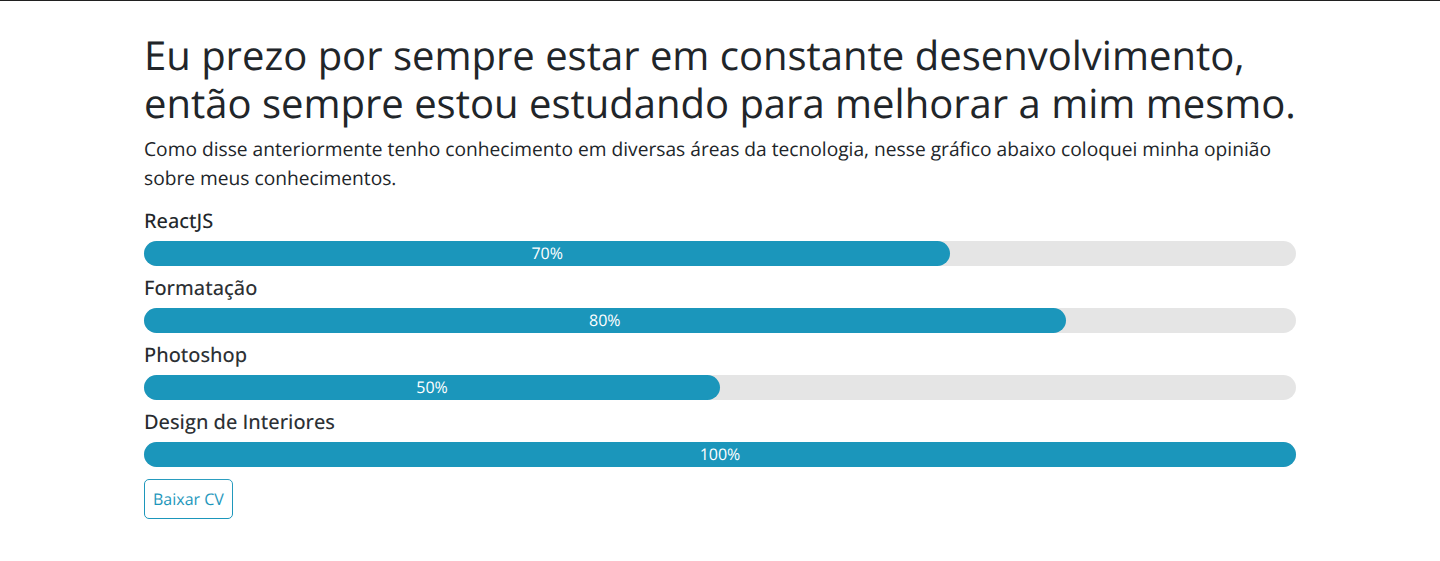
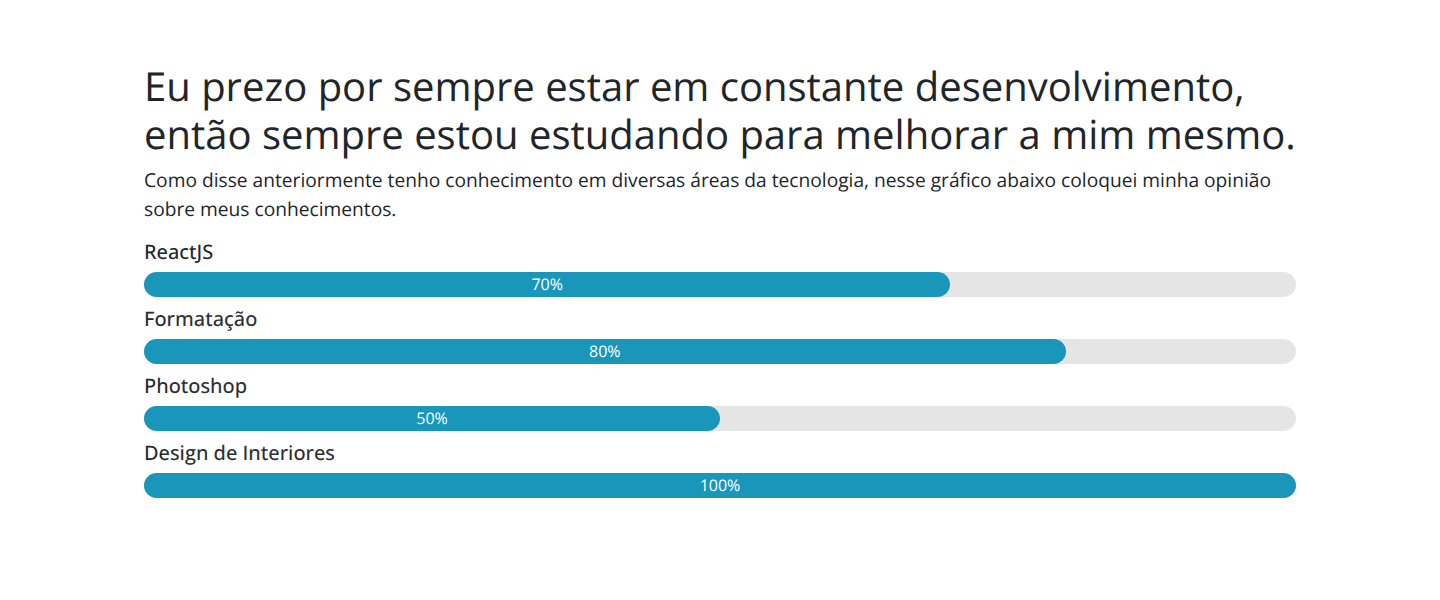
docs: point the README to GitHub Pages and the new repository name

Changed region(s): [[0.0938, 0.0606, 0.9062, 0.7879], [0.125, 0.7879, 0.875, 0.8485], [0.0938, 0.8788, 0.1562, 0.9091]]

diff --git a/README.md b/README.md
@@ -1,6 +1,6 @@
 <div align="center">
 
-# raniWebsite
+# 2021.ranimontagna.com
 
 **My first personal site, from 2021. Questionable design and CSS of dubious origin, kept as a humble reminder of where I started.**
 
@@ -10,7 +10,7 @@
 ![Bootstrap](https://img.shields.io/badge/Bootstrap_4-7952B3?style=for-the-badge&logo=bootstrap&logoColor=white)
 ![Material UI](https://img.shields.io/badge/Material_UI_4-007FFF?style=for-the-badge&logo=mui&logoColor=white)
 
-[**Live site**](https://rani-website.vercel.app/) •
+[**Live site**](https://2021.ranimontagna.com/) •
 [Features](#features) •
 [Screenshots](#screenshots) •
 [Project layout](#project-layout) •
@@ -20,35 +20,35 @@
 </div>
 
 > [!WARNING]
-> **Discontinued.** raniWebsite is no longer maintained and this repository is archived as a portfolio reference. The September 2021 version is still online at [rani-website.vercel.app](https://rani-website.vercel.app/). My current site is [ranimontagna.com](https://ranimontagna.com).
+> **Discontinued.** This site is no longer maintained and this repository is archived as a portfolio reference. It is online at [2021.ranimontagna.com](https://2021.ranimontagna.com/) on GitHub Pages. My current site is [ranimontagna.com](https://ranimontagna.com).
 
-![raniWebsite hero](docs/screenshots/hero.png)
+![Hero](docs/screenshots/hero.png)
 
 ## About
 
-I built this site in February 2021, in my first year of Systems Analysis and Development at UPF and a few months before my first developer job, and polished it in September 2021. It was my first React project after the Create React App template: each section is a component with its own CSS file. The page is in Portuguese. It was followed by [rani-website](https://github.com/RanielliMontagna/rani-website) in 2022.
+I built this site in February 2021, in my first year of Systems Analysis and Development at UPF and a few months before my first developer job, and polished it in September 2021. It was my first React project after the Create React App template: each section is a component with its own CSS file. The page is in Portuguese. It was followed by [2022.ranimontagna.com](https://github.com/RanielliMontagna/2022.ranimontagna.com) in 2022. This repository was called `raniWebsite` until October 2026.
 
 ## Features
 
 - **Intro** with a gradient background, a typewriter greeting and a menu that jumps to each section.
 - **About** with my photo, my role at the time and a short bio.
-- **Skills** as progress bars, with a button to download my CV.
+- **Skills** as progress bars. A button downloaded my CV until October 2026, when the CV came out because it had my phone number.
 - **Design work**: logos and mockups from my time as a graphic designer.
 - **Programming**: cards for React, Flutter and Go, the technologies I was studying.
 - **Games**: a carousel with my favorite games, built with react-image-gallery.
-- **Contact** form and contact details. The form is layout only and never sends anything.
+- **Contact** form and my e-mail address. The form is layout only and never sends anything. My phone number, home address and a WhatsApp link in the footer were removed in October 2026.
 - Scroll animations with AOS, and Open Graph, Twitter and Google Search meta tags.
 
 ## Screenshots
 
-Taken in October 2026 from a local production build. The styles ask for Segoe UI, which only Windows has, so these screenshots use Open Sans.
+Taken in October 2026 from the production build. The styles ask for Segoe UI, which only Windows has, so these screenshots use Open Sans.
 
 <table>
   <tr>
     <td colspan="2"><img src="docs/screenshots/about.png" alt="About section" /><p align="center"><sub>About</sub></p></td>
   </tr>
   <tr>
-    <td width="50%"><img src="docs/screenshots/skills.png" alt="Skills" /><p align="center"><sub>Skills and CV download</sub></p></td>
+    <td width="50%"><img src="docs/screenshots/skills.png" alt="Skills" /><p align="center"><sub>Skills</sub></p></td>
     <td width="50%"><img src="docs/screenshots/design.png" alt="Design work" /><p align="center"><sub>Design work</sub></p></td>
   </tr>
   <tr>
@@ -59,7 +59,7 @@ Taken in October 2026 from a local production build. The styles ask for Segoe UI
 ## Project layout
 
 ```text
-public/                    # index.html with the meta tags, manifest, icons, CV, technology and game images
+public/                    # index.html with the meta tags, manifest, icons, technology and game images
 src/
 ├── pages/Home.jsx         # puts the sections in order and starts AOS
 ├── components/divs/       # Intro, About, Cv, DesignerWorks, Programming, Games, Contact and Footer, each with its CSS;
@@ -75,21 +75,23 @@ src/
 | UI | React 17, JavaScript, plain CSS per section on top of Bootstrap 4, Material UI 4 cards, React Icons |
 | Effects | AOS, typewriter-effect, react-image-gallery |
 | Build | Create React App 4 (react-scripts 4.0.2) |
-| Hosting | Vercel |
+| Hosting | Vercel in 2021, GitHub Pages since October 2026 |
 
 ## Running locally
 
 Last checked in October 2026. Create React App 4 needs Node.js 16.
 
 ```bash
-git clone https://github.com/RanielliMontagna/raniWebsite.git
-cd raniWebsite
+git clone https://github.com/RanielliMontagna/2021.ranimontagna.com.git
+cd 2021.ranimontagna.com
 nvm use 16    # or: fnm use 16
 npm ci
 
 npm start       # http://localhost:3000
 npm run build
 ```
+
+The `gh-pages` branch holds the `build/` folder and a `CNAME` file for 2021.ranimontagna.com.
 
 There are no tests: the Create React App placeholder test looked for a "learn react" link that never existed on this page, so it failed from the first commit and was removed in October 2026.
 
@@ -98,8 +100,8 @@ There are no tests: the Create React App placeholder test looked for a "learn re
 - **February 2021**: started from Create React App. The first layout had a header, main banner, about, programming, games, quote and footer sections, with a typewriter and scroll effects. A CV download and the design work section came next, images were compressed and converted to WebP, and the layout was reworked around the intro and contact sections. Segoe UI became the font.
 - **May–June 2021**: about text rewritten.
 - **September 2021**: new photo and carousel, logo and icon, Open Graph and Twitter tags, a Content Security Policy that was tried and taken out, and image sizes. Last commit on 16 September 2021.
-- **2022**: replaced by rani-website.
-- **October 2026**: archived.
+- **2022**: replaced by the next version of the site, now 2022.ranimontagna.com.
+- **October 2026**: phone number, home address, WhatsApp link and CV removed; published on GitHub Pages at 2021.ranimontagna.com; repository renamed from `raniWebsite`; archived.
 
 ## Author
 
